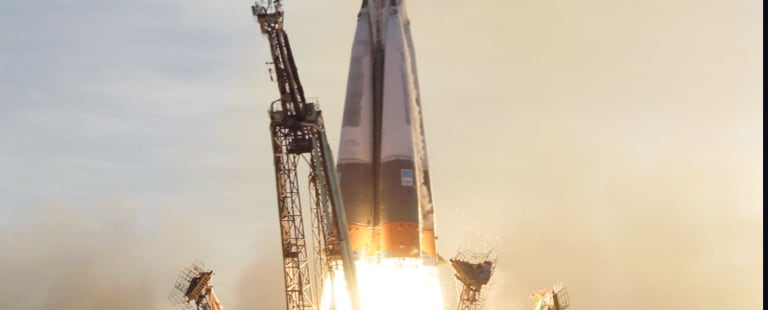
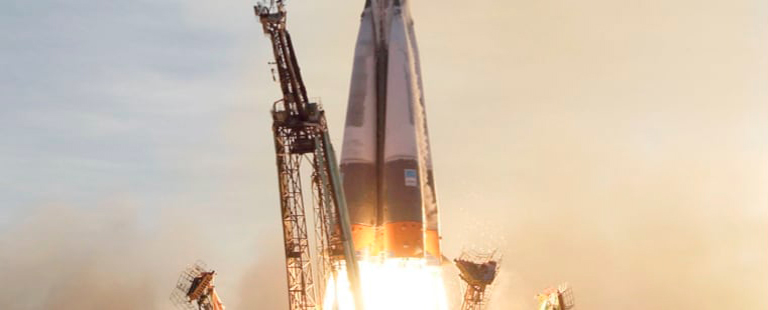
Modificada la logica del manejo en la actividad del Navbar

diff --git a/src/routes/TechPage.js b/src/routes/TechPage.js
@@ -1,13 +1,17 @@
 import Navbar from '../components/Navbar'
 import '../stylesheets/TechPage.css'
 import Titles from '../components/Titles'
-import { useContext, useState } from 'react'
+import { useContext, useState, useRef } from 'react'
 import { DatabaseContext } from '..'
 
 function TechPage() {
+  const [navbarToogle, setNavbarToogle] = useState(false);
 
   const context = useContext(DatabaseContext);
   const [selectedTech, setSelectedTech] = useState({name: 'Launch vehicle', index: 0})
+
+  const windowWidth = useRef(window.innerWidth)
+  const windowWidthFix = windowWidth.current
 
   const modSelectedName1 = (selectedTech.name).toLocaleLowerCase()
   const modSelectedName2 = (modSelectedName1).split(' ')
@@ -16,8 +20,10 @@ function TechPage() {
     const modSelectedName3 = modSelectedName2.splice(1, 0, '-')
   }
 
+  const orientation = windowWidthFix < 680 ? 'landscape' : 'portrait'
+
   const modSelectedName4 = modSelectedName2.join('')
-  const urlFormated = require(`../images/technology/image-${modSelectedName4}-portrait.jpg`)
+  const urlFormated = require(`../images/technology/image-${modSelectedName4}-${orientation}.jpg`)
 
   const handleClickPickTech = (techIndex) => {
     const techName = context.technology[techIndex].name
@@ -32,15 +38,40 @@ function TechPage() {
     }
   }
 
+  const handleClassTitleByDevice = (display) => {
+    if (windowWidthFix < 680) {
+      if (display == false) {
+        return 'title-destination-box off'
+      } else {
+        return 'title-destination-box'
+      }
+    } else {
+      if (display == false) {
+        console.log('hola')
+        return 'title-destination-box'
+      } else {
+        console.log('hola 2')
+        return 'title-destination-box off'
+      }
+    }
+  }
+
+  const handleClickOutNavbar = () => {
+    setNavbarToogle(false)
+  }
+
   return (
     <div className='TechPage'>
-      <Navbar />
-      <main className='main-tech'>
+      <Navbar 
+        navbarToogle={navbarToogle}
+        setNavbarToogle={setNavbarToogle}
+      />
+      <main className='main-tech' onClick={handleClickOutNavbar}>
         <article className='left-side tech'>
           <Titles 
             titleNumber='03'
             titleText='SPACE LAUNCH 101'
-            clase='title-destination-box'
+            clase={handleClassTitleByDevice(false)}
           />
           <section className='tech-text-container'>
             <div className='tech-picker-box'>
@@ -62,6 +93,11 @@ function TechPage() {
           </section>
         </article>
         <article className='right-side tech'>
+          <Titles 
+            titleNumber='03'
+            titleText='SPACE LAUNCH 101'
+            clase={handleClassTitleByDevice(true)}
+          />
           <img src={urlFormated} className='tech-image' />
         </article>
       </main>

diff --git a/src/stylesheets/TechPage.css b/src/stylesheets/TechPage.css
@@ -122,3 +122,95 @@
 .tech-image {
     height: 80%;
 }
+
+@media screen and (max-width: 480px) {
+
+    .TechPage {
+        height: auto;
+        background-image: url('../images/background-technology-mobile.jpg');
+        padding-bottom: 20%;
+    }
+
+    .main-tech {
+        height: 85%;
+        width: 100%;
+        display: flex;
+        flex-direction: column;
+        align-items: stretch;
+        justify-content: flex-start;
+        padding: 0;
+    }
+    
+    .left-side.tech {
+        order: 5;
+        height: 0%;
+        width: 100%;
+        margin-left: 0;
+        display: flex;
+        flex-direction: column;
+        align-items: center;
+        justify-content: flex-start;
+        padding: 0 10%;
+    }
+
+    .right-side.tech {
+        order: 2;
+        height: 50%;
+        width: 100%;
+        display: flex;
+        flex-direction: column;
+        align-items: center;
+        justify-content: center;
+    }
+
+    .tech-text-container {
+        height: 85%;
+        width: 100%;
+        display: flex;
+        flex-direction: column;
+        align-items: center;
+        justify-content: space-between;
+    }
+
+    .tech-text-box {
+        height: 45%;
+        width: 100%;
+    }
+
+    .tech-picker-box {
+        height: 45%;
+        width: 70%;
+        display: flex;
+        flex-direction: row;
+        align-items: center;
+        justify-content: space-between;
+        padding: 5% 0;
+        gap: 5%;
+        margin-bottom: 5%;
+    }
+
+    .tech-picker-button {
+        height: 45px;
+        width: 45px;
+        border-radius: 45px;
+        font-size: 1rem;
+        display: flex;
+        flex-direction: column;
+        align-items: center;
+        justify-content: center;
+        padding-top: 1%;
+    }
+
+
+
+
+
+
+
+    .tech-image {
+        height: auto;
+        width: 100%;
+        margin-bottom: 3%;
+    }
+ 
+}

diff --git a/src/routes/CrewPage.js b/src/routes/CrewPage.js
@@ -5,14 +5,13 @@ import Titles from '../components/Titles';
 import '../stylesheets/CrewPage.css'
 
 function CrewPage() {
+  const [navbarToogle, setNavbarToogle] = useState(false);
 
   const context = useContext(DatabaseContext);
   const [selectedCrew, setSelectedCrew] = useState({name: 'Douglas Hurley', index: 0})
 
   const windowWidth = useRef(window.innerWidth)
   const windowWidthFix = windowWidth.current
-
-  console.log(windowWidthFix)
 
   const modSelectedName1 = (selectedCrew.name).toLocaleLowerCase()
   const modSelectedName2 = (modSelectedName1).split(' ')
@@ -50,10 +49,17 @@ function CrewPage() {
     }
   }
 
+  const handleClickOutNavbar = () => {
+    setNavbarToogle(false)
+  }
+
   return (
     <div className='CrewPage'>
-      <Navbar />
-      <main className='main-crew'>
+      <Navbar 
+        navbarToogle={navbarToogle}
+        setNavbarToogle={setNavbarToogle}
+      />
+      <main className='main-crew' onClick={handleClickOutNavbar}>
         <article className='left-side crew'>
           <Titles 
             titleNumber='02'
@@ -84,10 +90,10 @@ function CrewPage() {
         </article>
         <article className='right-side crew'>
           <Titles 
-              titleNumber='02'
-              titleText='MEET YOUR CREW'
-              clase={handleClassTitleByDevice(true)}
-            />
+            titleNumber='02'
+            titleText='MEET YOUR CREW'
+            clase={handleClassTitleByDevice(true)}
+          />
           <img src={urlFormated} className='crew-image' alt={selectedCrew.name} />
           <hr className='crewpage-hr'></hr>
         </article>

diff --git a/src/routes/HomePage.js b/src/routes/HomePage.js
@@ -1,11 +1,21 @@
 import Navbar from '../components/Navbar';
 import '../stylesheets/HomePage.css'
+import { useState } from 'react';
 
 function HomePage() {
+  const [navbarToogle, setNavbarToogle] = useState(false);
+
+  const handleClickOutNavbar = () => {
+    setNavbarToogle(false)
+  }
+
   return (
     <div className='HomePage'>
-      <Navbar />
-      <main className='main-homepage'>
+      <Navbar 
+        navbarToogle={navbarToogle}
+        setNavbarToogle={setNavbarToogle}
+      />
+      <main className='main-homepage' onClick={handleClickOutNavbar}>
         <h3 className='homepage-h3'>SO, YOU WANT TO TRAVEL TO</h3>
         <h1 className='homepage-h1'>SPACE</h1>
         <p>Let's face it; if you want to go to space, you might as well genuinely go to outer space and not hover kind of on the edge of it. Well sit back, and relax because we'll give you a truly out of this world experience!</p>

diff --git a/src/routes/DestinationPage.js b/src/routes/DestinationPage.js
@@ -7,6 +7,7 @@ import Titles from '../components/Titles';
 import '../stylesheets/DestinationPage.css'
 
 function DestinationPage() {
+  const [navbarToogle, setNavbarToogle] = useState(false);
 
   const context = useContext(DatabaseContext)
 
@@ -18,10 +19,17 @@ function DestinationPage() {
     setSelectedPlanet({name: destinationFormated, index: desIndex})
   }
 
+  const handleClickOutNavbar = () => {
+    setNavbarToogle(false)
+  }
+
   return (
     <div className='DestinationPage'>
-      <Navbar />
-      <main className='main-destination'>
+      <Navbar 
+        navbarToogle={navbarToogle}
+        setNavbarToogle={setNavbarToogle}
+      />
+      <main className='main-destination' onClick={handleClickOutNavbar} >
         <article className='left-side'>
           <Titles 
             titleNumber='01'

diff --git a/src/components/Navbar.js b/src/components/Navbar.js
@@ -3,13 +3,10 @@ import { NavLink } from 'react-router-dom';
 import { useRef } from 'react';
 import hamburgerIcon from '../images/icon-hamburger.svg'
 import closeIcon from '../images/icon-close.svg'
-import { useState } from 'react';
 
-function Navbar () {
+function Navbar ({ navbarToogle, setNavbarToogle }) {
   const windowWidth = useRef(window.innerWidth)
   const windowWidthFix = windowWidth.current
-
-  const [navbarToogle, setNavbarToogle] = useState(false);
 
   const handleClickShowNavbar = () => {
     if (windowWidthFix < 680) {

diff --git a/src/components/Provider.js b/src/components/Provider.js
@@ -1,0 +1,14 @@
+import React, { useContext, useState } from 'react'
+
+function Provider() {
+
+    const NavbarContext = useContext(false)
+    const [navbarToogle, setNavbarToogle] = useState(false);
+
+  return (
+    <NavbarContext.Provider value={{ navbarToogle, setNavbarToogle }}>
+    </NavbarContext.Provider>
+  )
+}
+
+export default Provider

diff --git a/src/index.js b/src/index.js
@@ -1,4 +1,4 @@
-import React, { createContext, useState } from 'react';
+import React, { createContext } from 'react';
 import ReactDOM from 'react-dom/client';
 import './index.css';
 import { BrowserRouter, Route, Routes } from 'react-router-dom';
